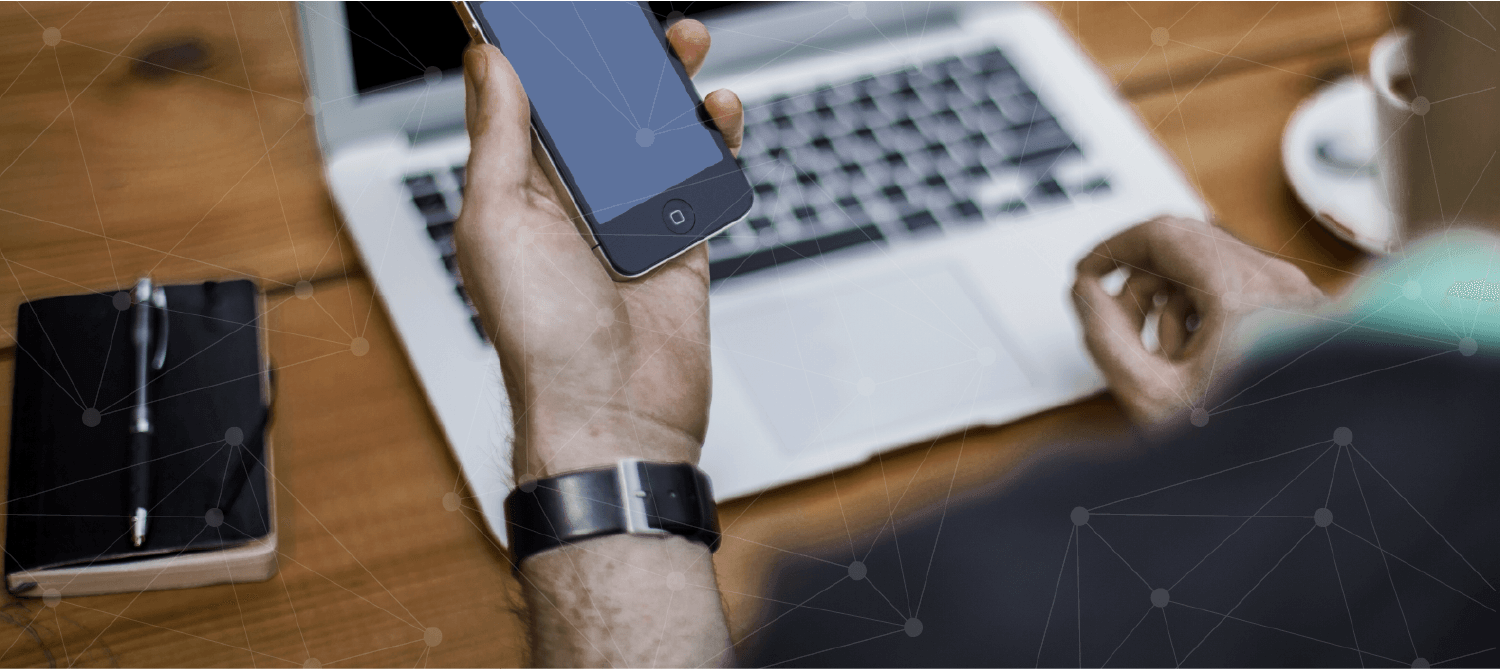
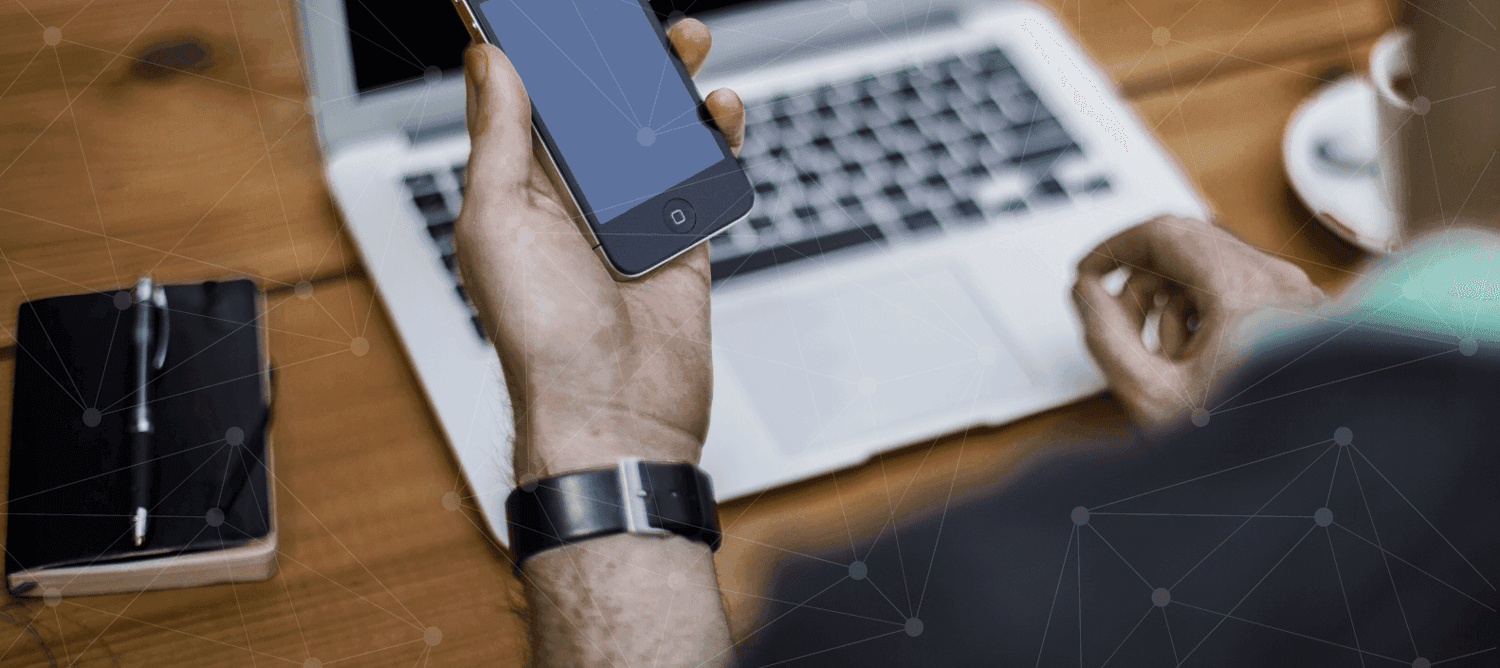
prueba

diff --git a/styles/media-queries.css b/styles/media-queries.css
@@ -103,18 +103,17 @@
   .container-hand-image-1st-part {
     background-position: -49px -0.5%!important;
     background-image: url(../images/img-movil/phone2.png);
+    background-size: 117%!important;
   }
  .container-hand-image-2nd-part {
     background-image: url(../images/img-movil/phone.png);
-    background-position: -51px 100%!important
+    background-position: -51px 100%!important;
+    background-size: 117%!important;
   }
   .homeImage2 {
     background-size: 96.5%!important;
-    background-position: 110% 23.5%!important;
+    background-position: 102% 25.5%!important;
     background-image: url(../images/img-movil/home-image2.png);
-  }
-  .container-hand-image-2nd-part , .container-hand-image-1st-part {
-    background-size: 117%!important;
   }
   .homeImage{
   background-image: url(../images/img-movil/home-image.png);
